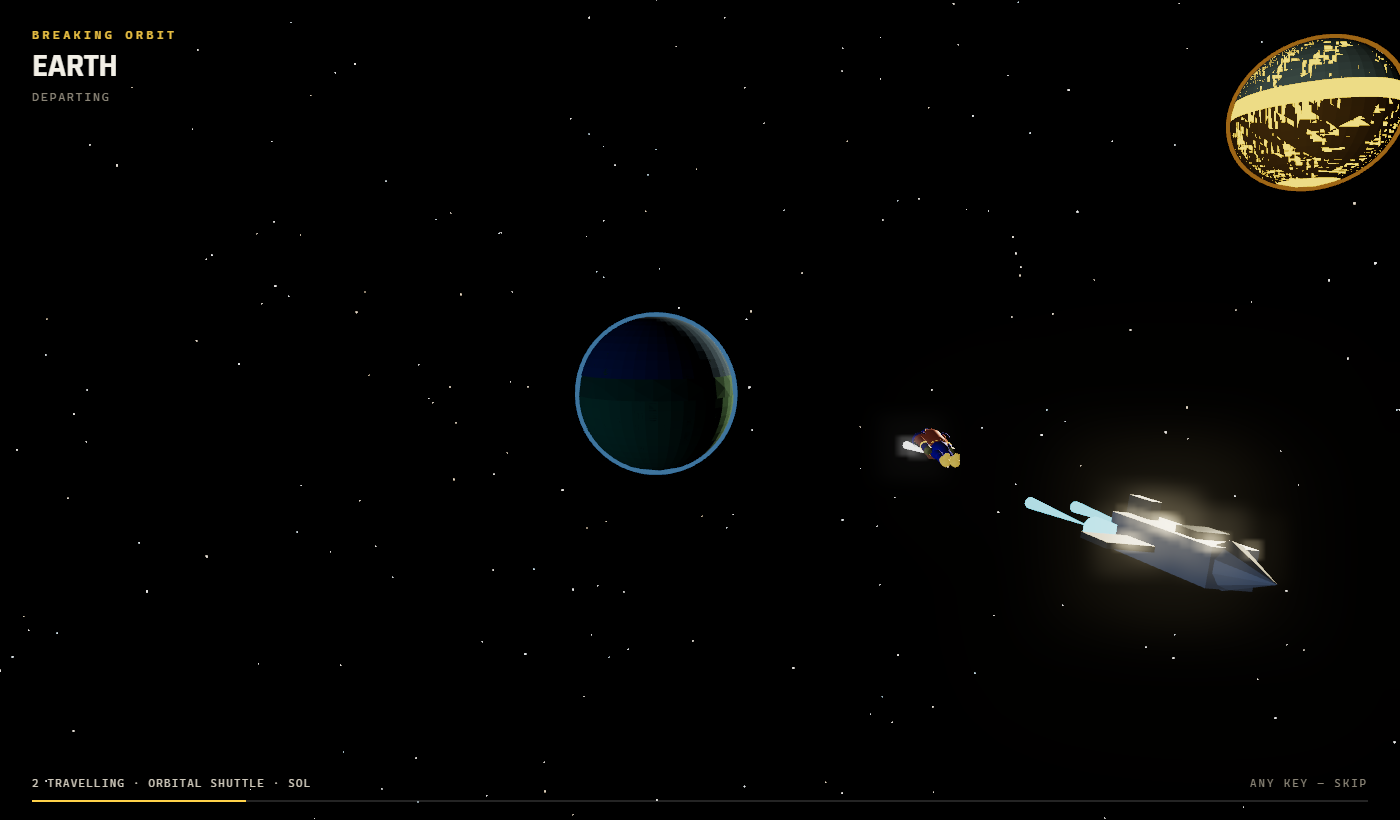
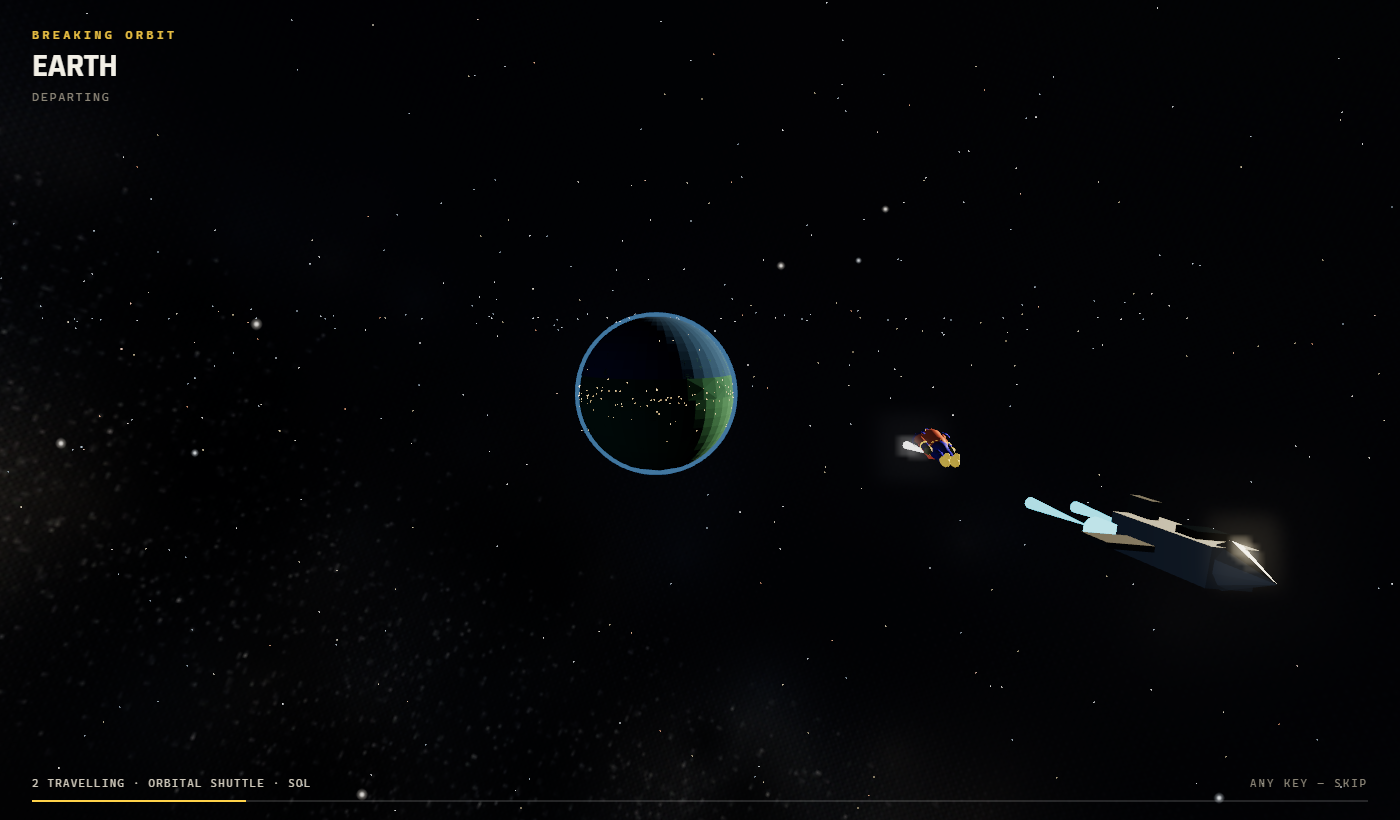
space is not black with dots on it
"should look more like space."

It was 2,600 evenly-scattered white specks on #000, and it read as a screensaver
— because the two things that actually say SKY were both missing.

THE GALACTIC PLANE. Real deep sky has a broad, ragged, dusty band that most of
the stars belong to. A painted backdrop sphere now carries it: 520 soft blobs
along a wobbled centreline so its edge is uneven (a clean ellipse reads as a
paint stroke), 90 DARK LANES cut back through it because dust blocks as much as
it glows, three huge faint clouds well off the plane so the sky is not all one
feature, and 9,000 single-pixel stars too faint to resolve inside the band —
the milky part of the milky way. Gold, rust and deep teal; no purple.

HIERARCHY. A sky with no bright stars has no depth. The field is now clustered
toward the plane rather than scattered (uniform scatter is the one distribution
that never occurs in nature), with a colour-temperature ramp from cold blue-white
through gold to a few red giants, and 46 of them get real additive glow sprites
that the composer's bloom picks up the way it picks up a ki blast.

THE TERMINATOR IS THE TELL. Vacuum has no air to bounce light, so the unlit side
of a world goes nearly black and the line between is hard. Ambient sat at 0.55
and filled that in — every planet came out looking like a lit toy. 0.30 now,
against a 4.2 key.

AND WHERE THE SUN SITS DECIDES WHETHER YOU CAN SEE ANYTHING. Outbound you fly
[…]

diff --git a/src/engine/spaceflight.js b/src/engine/spaceflight.js
@@ -125,44 +125,189 @@ export class SpaceFlight {
   _buildLights() {
     // A star is ONE hard light and almost no fill — that is what makes space read as space, and it
     // is the same lighting grammar as the street (key + rim), just with the fill turned nearly off.
-    const sun = new THREE.DirectionalLight(0xfff2d0, 3.1);
-    sun.position.set(-1, 0.35, 1);
+    // ⚠ THE TERMINATOR IS THE TELL. Vacuum has no atmosphere to bounce light, so the unlit side of
+    // a world goes nearly black and the line between is HARD. Ambient at 0.55 was filling that in
+    // and every planet came out looking like a lit toy. A hard key, a whisper of cold bounce, and
+    // almost no ambient is what makes a sphere read as a world a hundred million miles away.
+    // ⚠ WHERE THE SUN SITS DECIDES WHETHER YOU CAN SEE ANYTHING. Outbound you fly AWAY from it, so
+    // looking back at the world you left is looking at its night side — physically right, and it
+    // rendered Earth as a black disc with a rim. Swinging the star wide to one side keeps that
+    // honesty (it is still behind and to the side) while giving every body a fat three-quarter
+    // phase instead of a crescent: one hard terminator, a lit face worth looking at.
+    const sun = new THREE.DirectionalLight(0xfff4dc, 4.2);
+    sun.position.set(-1, 0.30, 0.42);
     this.scene.add(sun); this.sunLight = sun;
-    const rim = new THREE.DirectionalLight(0x8fb8ff, 0.5);
-    rim.position.set(1, -0.2, -0.6);
+    const rim = new THREE.DirectionalLight(0x6f92c4, 0.34);
+    rim.position.set(1, -0.25, -0.7);
     this.scene.add(rim);
-    this.scene.add(new THREE.AmbientLight(0x2b3038, 0.55));
+    this.scene.add(new THREE.AmbientLight(0x121820, 0.30));
   }
 
   _mat(o) { const m = new THREE.MeshStandardMaterial(o); this._mats.push(m); return m; }
   _basic(o) { const m = new THREE.MeshBasicMaterial(o); this._mats.push(m); return m; }
   _geo(g) { this._geos.push(g); return g; }
 
-  // STARS — one Points cloud, and the only thing in the scene that is not lit. Sizes vary so the
-  // field has depth; colour drifts warm→cold so it does not read as printer dust.
+  // ⚠ SPACE IS NOT BLACK WITH DOTS ON IT. The first field was 2,600 evenly-scattered white specks
+  // on #000, and it read as a screensaver — because the two things that actually say "sky" were
+  // both missing. Real deep sky has (a) a GALACTIC PLANE: a broad, dusty, uneven band that most of
+  // the stars belong to, and (b) VARIETY — a handful of genuinely bright stars against thousands
+  // too faint to resolve, in colours from cold blue-white to old gold. Uniform scatter is the one
+  // distribution that never occurs in nature, which is exactly why it looks synthetic.
+  //
+  // Three layers, one draw each:
+  //   1. THE BACKDROP — a painted inverted sphere: not-quite-black gradient, the milky band, and a
+  //      few enormous faint dust clouds. This is doing most of the work.
+  //   2. THE FIELD — thousands of small stars, CLUSTERED toward the galactic plane rather than
+  //      scattered, with a colour temperature ramp.
+  //   3. THE BRIGHT ONES — a few dozen big additive sprites, because a sky with no hierarchy has
+  //      no depth.
+  // ⚠ NO PURPLE, including in the nebulae: the clouds are gold, rust and deep teal.
+  _skyTexture() {
+    const W = 2048, H = 1024;
+    const cv = document.createElement('canvas'); cv.width = W; cv.height = H;
+    const x = cv.getContext('2d');
+    // not-quite-black: a cold floor with a faint warm lift toward one pole, so the sky has a
+    // direction even before anything is drawn on it
+    const g0 = x.createLinearGradient(0, 0, 0, H);
+    g0.addColorStop(0, '#05070c');
+    g0.addColorStop(0.5, '#080a10');
+    g0.addColorStop(1, '#0a0908');
+    x.fillStyle = g0; x.fillRect(0, 0, W, H);
+
+    // THE GALACTIC PLANE — a wide diagonal band of dust, built from many soft blobs so its edge is
+    // ragged. A clean ellipse reads as a paint stroke; the raggedness is the whole effect.
+    const bandY = (u) => H * 0.52 + Math.sin(u * Math.PI * 2 + 0.6) * H * 0.16;
+    x.globalCompositeOperation = 'lighter';
+    for (let i = 0; i < 520; i++) {
+      const u = Math.random();
+      const px = u * W;
+      const spread = H * (0.05 + Math.random() * 0.10);
+      const py = bandY(u) + (Math.random() - 0.5) * spread * 2.4;
+      const r = H * (0.02 + Math.random() * 0.075);
+      const g = x.createRadialGradient(px, py, 0, px, py, r);
+      const warm = Math.random() < 0.62;
+      const a = 0.020 + Math.random() * 0.030;
+      g.addColorStop(0, warm ? `rgba(196,166,116,${a})` : `rgba(120,158,178,${a})`);
+      g.addColorStop(1, 'rgba(0,0,0,0)');
+      x.fillStyle = g; x.beginPath(); x.arc(px, py, r, 0, Math.PI * 2); x.fill();
+    }
+    // DARK LANES cut through it — the band is dust, and dust blocks as much as it glows
+    x.globalCompositeOperation = 'source-over';
+    for (let i = 0; i < 90; i++) {
+      const u = Math.random(), px = u * W;
+      const py = bandY(u) + (Math.random() - 0.5) * H * 0.13;
+      const r = H * (0.012 + Math.random() * 0.05);
+      const g = x.createRadialGradient(px, py, 0, px, py, r);
+      g.addColorStop(0, 'rgba(3,4,7,0.55)');
+      g.addColorStop(1, 'rgba(3,4,7,0)');
+      x.fillStyle = g; x.beginPath(); x.arc(px, py, r, 0, Math.PI * 2); x.fill();
+    }
+    // a few huge, very faint clouds well off the plane, so the sky is not all one feature
+    x.globalCompositeOperation = 'lighter';
+    for (const [cx, cy, r, col] of [[W * 0.18, H * 0.24, H * 0.34, '160,120,70'],
+                                    [W * 0.72, H * 0.78, H * 0.30, '70,120,132'],
+                                    [W * 0.46, H * 0.12, H * 0.22, '150,90,60']]) {
+      const g = x.createRadialGradient(cx, cy, 0, cx, cy, r);
+      g.addColorStop(0, `rgba(${col},0.045)`);
+      g.addColorStop(0.55, `rgba(${col},0.018)`);
+      g.addColorStop(1, 'rgba(0,0,0,0)');
+      x.fillStyle = g; x.beginPath(); x.arc(cx, cy, r, 0, Math.PI * 2); x.fill();
+    }
+    // unresolved star haze INSIDE the band — the milky part of the milky way
+    for (let i = 0; i < 9000; i++) {
+      const u = Math.random();
+      const px = u * W;
+      const py = bandY(u) + (Math.random() - 0.5) * H * (0.05 + Math.random() * 0.12);
+      x.fillStyle = `rgba(230,226,214,${0.05 + Math.random() * 0.16})`;
+      x.fillRect(px, py, 1, 1);
+    }
+    x.globalCompositeOperation = 'source-over';
+    const t = new THREE.CanvasTexture(cv);
+    t.colorSpace = THREE.SRGBColorSpace;
+    this._skyTex = t;
+    return t;
+  }
+
   _buildStars() {
-    const N = 2600, pos = new Float32Array(N * 3), col = new Float32Array(N * 3), sz = new Float32Array(N);
+    // 1 — the painted sky
+    const sky = new THREE.Mesh(
+      this._geo(new THREE.SphereGeometry(26000, 48, 32)),
+      this._basic({ map: this._skyTexture(), side: THREE.BackSide, depthWrite: false, fog: false }));
+    sky.rotation.z = 0.42;                       // tilt the plane so it crosses frame diagonally
+    sky.frustumCulled = false;
+    this.scene.add(sky); this.sky = sky;
+
+    // 2 — the resolved field, CLUSTERED to the galactic plane rather than scattered
+    const N = 3400, pos = new Float32Array(N * 3), col = new Float32Array(N * 3);
     const c = new THREE.Color();
     for (let i = 0; i < N; i++) {
-      const r = 9000 + Math.random() * 12000;
-      const th = Math.random() * Math.PI * 2, ph = Math.acos(2 * Math.random() - 1);
+      const r = 9000 + Math.random() * 11000;
+      const th = Math.random() * Math.PI * 2;
+      // bias latitude toward the plane: cube of a signed uniform hugs zero
+      const u = Math.random() * 2 - 1;
+      const lat = (Math.random() < 0.72 ? Math.pow(Math.abs(u), 2.6) * Math.sign(u) : u) * Math.PI * 0.5;
+      const ph = Math.PI / 2 - lat;
       pos[i * 3] = Math.sin(ph) * Math.cos(th) * r;
       pos[i * 3 + 1] = Math.cos(ph) * r;
       pos[i * 3 + 2] = Math.sin(ph) * Math.sin(th) * r;
+      // colour temperature: mostly cold-white, a warm tail, a few red giants
       const k = Math.random();
-      c.setHSL(k < 0.7 ? 0.09 : 0.56, 0.35, 0.55 + Math.random() * 0.45);
+      const hue = k < 0.55 ? 0.58 : k < 0.86 ? 0.11 : 0.045;
+      const sat = k < 0.55 ? 0.18 : k < 0.86 ? 0.30 : 0.55;
+      const lum = 0.42 + Math.pow(Math.random(), 2.2) * 0.55;
+      c.setHSL(hue, sat, lum);
       col[i * 3] = c.r; col[i * 3 + 1] = c.g; col[i * 3 + 2] = c.b;
-      sz[i] = 14 + Math.pow(Math.random(), 3) * 90;
     }
     const geo = this._geo(new THREE.BufferGeometry());
     geo.setAttribute('position', new THREE.BufferAttribute(pos, 3));
     geo.setAttribute('color', new THREE.BufferAttribute(col, 3));
-    geo.setAttribute('size', new THREE.BufferAttribute(sz, 1));
-    const mat = new THREE.PointsMaterial({ size: 40, sizeAttenuation: true, vertexColors: true, transparent: true, opacity: 0.95, depthWrite: false });
+    const mat = new THREE.PointsMaterial({ size: 26, sizeAttenuation: true, vertexColors: true, transparent: true, opacity: 0.9, depthWrite: false });
     this._mats.push(mat);
     this.stars = new THREE.Points(geo, mat);
     this.stars.frustumCulled = false;
     this.scene.add(this.stars);
+
+    // 3 — THE BRIGHT ONES. A sky with no hierarchy has no depth, so a few dozen stars get a real
+    // glow sprite. Additive, so the bloom pass picks them up the way it picks up a ki blast.
+    const B = 46, bp = new Float32Array(B * 3), bc = new Float32Array(B * 3), bs = new Float32Array(B);
+    for (let i = 0; i < B; i++) {
+      const r = 10000 + Math.random() * 9000;
+      const th = Math.random() * Math.PI * 2;
+      const u2 = Math.random() * 2 - 1;
+      const ph = Math.PI / 2 - (Math.pow(Math.abs(u2), 1.8) * Math.sign(u2)) * Math.PI * 0.5;
+      bp[i * 3] = Math.sin(ph) * Math.cos(th) * r;
+      bp[i * 3 + 1] = Math.cos(ph) * r;
+      bp[i * 3 + 2] = Math.sin(ph) * Math.sin(th) * r;
+      const k = Math.random();
+      c.setHSL(k < 0.6 ? 0.58 : 0.1, 0.35, 0.86);
+      bc[i * 3] = c.r; bc[i * 3 + 1] = c.g; bc[i * 3 + 2] = c.b;
+      bs[i] = 1;
+    }
+    const bgeo = this._geo(new THREE.BufferGeometry());
+    bgeo.setAttribute('position', new THREE.BufferAttribute(bp, 3));
+    bgeo.setAttribute('color', new THREE.BufferAttribute(bc, 3));
+    const bmat = new THREE.PointsMaterial({
+      size: 300, sizeAttenuation: true, vertexColors: true, map: this._glowTex(),
+      transparent: true, opacity: 0.95, depthWrite: false, blending: THREE.AdditiveBlending });
+    this._mats.push(bmat);
+    this.bright = new THREE.Points(bgeo, bmat);
+    this.bright.frustumCulled = false;
+    this.scene.add(this.bright);
+  }
+
+  // a soft round falloff — used by the bright stars and the sun's corona
+  _glowTex() {
+    if (this._glow) return this._glow;
+    const S = 128, cv = document.createElement('canvas'); cv.width = cv.height = S;
+    const x = cv.getContext('2d');
+    const g = x.createRadialGradient(S / 2, S / 2, 0, S / 2, S / 2, S / 2);
+    g.addColorStop(0, 'rgba(255,255,255,1)');
+    g.addColorStop(0.16, 'rgba(255,255,255,0.55)');
+    g.addColorStop(0.45, 'rgba(255,255,255,0.10)');
+    g.addColorStop(1, 'rgba(255,255,255,0)');
+    x.fillStyle = g; x.fillRect(0, 0, S, S);
+    this._glow = new THREE.CanvasTexture(cv);
+    return this._glow;
   }
 
   // A WORLD, painted flat. Icosahedron for the body (flat shading, low subdivision — the same
@@ -186,6 +331,26 @@ export class SpaceFlight {
           this._mat({ color: hex, roughness: 0.95, metalness: 0, flatShading: true }));
         grp.add(belt);
       });
+    }
+    // CITY LIGHTS on the night side of a settled world. Nothing else in a space shot says
+    // "people live there" as fast, and it is what makes the terminator worth having.
+    if (L.night) {
+      const N = 900, pos = new Float32Array(N * 3);
+      for (let i = 0; i < N; i++) {
+        const th = Math.random() * Math.PI * 2, u = Math.random() * 2 - 1;
+        const ph = Math.acos(u), r = radius * 1.002;
+        // clump them: most of a planet's lights are on a few coasts
+        const cl = Math.pow(Math.random(), 2.2);
+        pos[i * 3] = Math.sin(ph) * Math.cos(th) * r;
+        pos[i * 3 + 1] = Math.cos(ph) * r * (0.35 + cl * 0.65);
+        pos[i * 3 + 2] = Math.sin(ph) * Math.sin(th) * r;
+      }
+      const g2 = this._geo(new THREE.BufferGeometry());
+      g2.setAttribute('position', new THREE.BufferAttribute(pos, 3));
+      const m2 = new THREE.PointsMaterial({ color: '#ffd8a0', size: radius * 0.028, sizeAttenuation: true,
+        transparent: true, opacity: 0.85, depthWrite: false, blending: THREE.AdditiveBlending });
+      this._mats.push(m2);
+      grp.add(new THREE.Points(g2, m2));
     }
     if (L.spot) {   // Jupiter earns its eye
       const spot = new THREE.Mesh(this._geo(new THREE.SphereGeometry(radius * 0.22, 16, 12)),
@@ -226,7 +391,11 @@ export class SpaceFlight {
       const m = this._planetMesh(id, rad);
       // ⚠ A FLYBY HAS TO LOOM. Held out at rad*1.9 + 240 the planets passed as distant marbles —
       // technically a flyby, dramatically nothing. Close enough that the limb crosses the frame.
-      const off = (side || 1) * (rad * 1.25 + 70);
+      // ⚠ A GIANT NEEDS MORE ROOM THAN A MOON. Offsetting every body by the same margin put
+      // Jupiter's unlit limb across a third of the frame during somebody ELSE's flyby — a huge
+      // shapeless dark mass crowding the shot it wasn't in. Scaling the stand-off with the radius
+      // keeps a giant unmistakably vast while leaving the lane clear for whoever's beat it is.
+      const off = (side || 1) * (rad * 2.3 + 80);
       m.position.set(off, (side || 1) * rad * 0.22, -t * LANE);
       m.userData.rad = rad; m.userData.id = id; m.userData.t = t;
       this.scene.add(m);
@@ -246,9 +415,18 @@ export class SpaceFlight {
     this.target.position.set(0, -this.target.userData.rad * 0.55, -LANE - this.target.userData.rad * 1.25);
     if (R.to.id === 'deep') this.target.visible = false;
     // the sun, far behind — it is the key light's source and the reason there is a terminator
-    this.sun = this._planetMesh('sun', 900);
-    this.sun.position.set(-9000, 2600, 9000);
+    this.sun = this._planetMesh('sun', 620);
+    this.sun.position.set(-13000, 3900, 5500);   // matches the key's direction — one star, one shadow
     this.scene.add(this.sun);
+    // A STAR IS A GLARE, NOT A DISC. The corona is what stops it reading as a gold ball, and the
+    // composer's bloom takes it the rest of the way.
+    const corona = new THREE.Sprite(new THREE.SpriteMaterial({
+      map: this._glowTex(), color: '#ffd8a0', transparent: true, opacity: 0.95,
+      blending: THREE.AdditiveBlending, depthWrite: false }));
+    this._mats.push(corona.material);
+    corona.scale.setScalar(8600);
+    corona.position.copy(this.sun.position);
+    this.scene.add(corona); this.corona = corona;
   }
 
   // THE HELIOSPHERE and THE OORT CLOUD — only built for a deep crossing, because they are only
@@ -596,7 +774,12 @@ export class SpaceFlight {
       for (const c of this.craft) for (const burn of c.burns) burn.material.color.setStyle(heat > 0.5 ? '#ff6a1a' : c.wake[0]);
     }
     for (const b2 of this.bodies) if (b2.userData.body) b2.rotation.y += 0.06 * (b2 === this.sun ? 0.1 : 1) * 0.016;
-    if (this.stars) this.stars.position.z = this.partyGroup.position.z;   // the field never runs out
+    // the sky is infinitely far away, so it rides with the camera — otherwise a 34,000-unit lane
+    // walks straight out of a 26,000-unit sphere and the stars simply stop
+    const pz = this.partyGroup.position.z;
+    if (this.stars) this.stars.position.z = pz;
+    if (this.bright) this.bright.position.z = pz;
+    if (this.sky) this.sky.position.z = pz;
   }
 
   _apply() {

diff --git a/src/data/planets.js b/src/data/planets.js
@@ -70,9 +70,9 @@ export function transitSecsFor(p) {        // distance over an open throttle, ga
 export const PLANET_LOOK = {
   mercury: { base: '#8b8577', bands: ['#9a927f', '#6f6a5e'], atmo: null,      r: 0.38 },
   venus:   { base: '#e0c489', bands: ['#f0d9a6', '#c9a86a'], atmo: '#ffe6b0', r: 0.95 },
-  earth:   { base: '#3f7a56', bands: ['#2f5f86', '#4d8a5f'], atmo: '#7fc4ff', r: 1.0, sea: '#2f5f86', land: '#4d8a5f', ice: '#eaf2ff' },
+  earth:   { base: '#3f7a56', bands: ['#2f5f86', '#4d8a5f'], atmo: '#7fc4ff', r: 1.0, night: true, sea: '#2f5f86', land: '#4d8a5f', ice: '#eaf2ff' },
   moon:    { base: '#a8a49b', bands: ['#b8b4aa', '#8b8577'], atmo: null,      r: 0.27 },
-  mars:    { base: '#b4532f', bands: ['#c96a3a', '#8e3f24'], atmo: '#e08a5a', r: 0.53, ice: '#f2efe6' },
+  mars:    { base: '#b4532f', bands: ['#c96a3a', '#8e3f24'], atmo: '#e08a5a', r: 0.53, night: true, ice: '#f2efe6' },
   jupiter: { base: '#c9a06a', bands: ['#e0c08a', '#a87a4a', '#d8b07a', '#8e6238'], atmo: '#f0d8a8', r: 11.2, spot: '#c9482f' },
   saturn:  { base: '#d8c08a', bands: ['#e8d4a2', '#bfa06a'], atmo: '#f0e0b0', r: 9.4, ring: ['#cfc3a0', '#9a8f7c', '#e0d6b8'] },
   uranus:  { base: '#7fc4c4', bands: ['#96d4d2', '#5f9fa4'], atmo: '#aee4e4', r: 4.0, tilt: 1.7 },

diff --git a/CLAUDE.md b/CLAUDE.md
@@ -1430,6 +1430,22 @@ Four laws, three of them the same idea: **a thing must not outlive the match tha
   own atmospheric entry. ⚠ The match HUD hides for the duration, restored EXACTLY as found.
   ⚠ The heliopause shell is 0.04 opacity — a backside sphere you're inside tints every pixel and
   drowns the stars; the BOW SHOCK carries the act.
+- ⚠ **SPACE IS NOT BLACK WITH DOTS ON IT** (2026-07-25, "should look more like space"). The first
+  field was 2,600 evenly-scattered white specks on #000 and read as a screensaver, because the two
+  things that actually say *sky* were both missing: a **GALACTIC PLANE** (a broad, ragged, dusty
+  band most stars belong to, with DARK LANES cut through it — dust blocks as much as it glows) and
+  **HIERARCHY** (a few dozen genuinely bright stars against thousands too faint to resolve).
+  ⚠ Uniform scatter is the one distribution that never occurs in nature. Three layers, one draw
+  each: a painted 2048×1024 backdrop sphere · a field CLUSTERED toward the plane with a colour-
+  temperature ramp · additive glow sprites for the bright ones (the composer's bloom takes them).
+  ⚠ All three ride the camera — a 34,000u lane walks straight out of a 26,000u sphere otherwise.
+- ⚠ **THE TERMINATOR IS THE TELL.** Vacuum has no air to bounce light: the unlit side goes nearly
+  black and the line is HARD. Ambient at 0.55 filled it in and every planet looked like a lit toy —
+  it is 0.30 now with a 4.2 key. ⚠ And WHERE the sun sits decides whether you can see anything:
+  outbound you fly away from it, so looking back at the world you left is looking at its NIGHT
+  side. The star is swung wide (still behind, far to one side) so every body shows a fat
+  three-quarter phase instead of a crescent. Settled worlds get CITY LIGHTS on the dark side.
+  A star is a GLARE, not a disc — the sun carries an 8,600u additive corona.
 - Console: `space <target|deep> [flyers] [ship]`. Testable via `{manual:true}` (no rAF).
   Refs `wwa-space-depart/flyby/helio/entry.png`.
 
